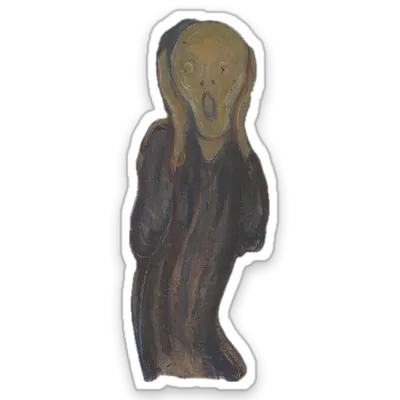
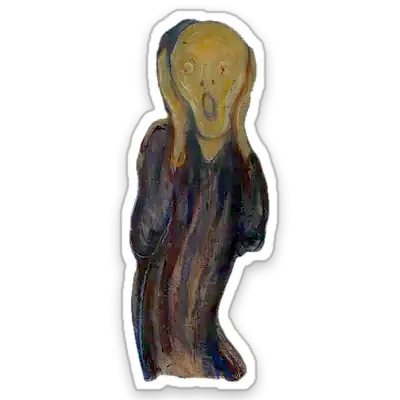
Brighter tarot stickers, uncut descenders, GitHub release and README
- Lift levels and saturation on the nine darkest stickers, The Scream first
- Hero g and live-input g no longer clipped; toxic boss never splits
- Sheet text stays inside tall-screenshot sheets; steps always two lines
- Drop the astrology and tarot FAQs; menu says Browser Extension
- Install page links the GitHub release instead of a site-hosted ZIP
- Friendly README with logo, demo GIF and step-by-step install

Changed region(s): [[0.3, 0.03, 0.69, 0.96]]

diff --git a/README.md b/README.md
@@ -1,98 +1,117 @@
-# bossdetox.ing
+<p align="center">
+  <img src="docs/readme/logo.png" alt="bossdetox.ing logo" width="120" height="120" />
+</p>
 
-A free, local-first Chrome side-panel companion for calm, professional responses, private mantras, Tarot and Bingo. No accounts, AI, backend, tracking, recording, automatic website access or runtime network services.
+<h1 align="center">bossdetox.ing</h1>
 
-## Install the production extension
+<p align="center"><strong>Keep your soul. Keep your paycheck.</strong></p>
 
-1. Extract `release/bossdetox-ing-1.0.0-chrome.zip` into an ordinary folder.
-2. In Chrome 116 or later, enter `chrome://extensions` and enable Developer mode.
-3. Choose **Load unpacked** and select the extracted folder containing `manifest.json`. Source builds use `.output/chrome-mv3`.
-4. Pin the original Search-style toolbar icon. Click it to open the side panel.
-5. Read the privacy disclosure and select **Open my tools**. The daily Tarot card opens first. Choose **Deal with my boss**, then tap a situation for a private charm and professional sentence.
+<p align="center">
+  A free pocket ward for toxic-boss days: what to say, what to send, a daily tarot pull and your boss's horoscope.<br />
+  Works offline. Tells no one. No accounts, no AI, no ads, no tracking.
+</p>
 
-No browser is opened automatically by these instructions or the dev command. Chrome may prevent installation on managed profiles. The neutral icon is a discretion choice; the extension identity remains visible in Chrome.
+<p align="center">
+  <a href="https://ass.bossdetox.ing"><strong>Open the app</strong></a> ·
+  <a href="https://github.com/demetriusk/bossdetoxing/releases/latest"><strong>Download the extension</strong></a> ·
+  <a href="https://bossdetox.ing">Website</a>
+</p>
 
-## Develop and verify
+<p align="center">
+  <img src="docs/readme/demo.gif" alt="Demo: the sky forecast, the daily tarot card, the threat grid, a threat with lines to say and write, and the encrypted Grimoire." width="640" />
+</p>
 
-Use Node **22.23.4 or later** and npm. Dependency versions are locked in `package-lock.json`. Network access is needed to install tooling, never to use the built extension.
+## What's inside
+
+- **Name the threat.** Twenty classics, from the moving goalpost to the meeting about the meeting. Tap one and get a line to say out loud and a line to write in the email.
+- **Pick your rock.** Yellow Rock is warm. Grey Rock is boring on purpose. Firm Rock says no, politely.
+- **Pull a card.** One card a day from a 78-card corporate deck: famous paintings turned stickers, each with a mantra and one next step for the actual job.
+- **Your boss's horoscope.** The real moon, Mercury and planets, calculated on your device. The boss forecast is for fun. Get it in writing anyway.
+- **The Grimoire keeps receipts.** A private calendar of what happened and when, locked with your passphrase. One tap on the eye hides everything.
+
+## Install
+
+You have two options. Pick one, or use both.
+
+### Option 1: the app (phone or computer, nothing to install)
+
+1. Open **[ass.bossdetox.ing](https://ass.bossdetox.ing)** in your browser.
+2. That's it. After the first visit it works offline too.
+3. Optional, for an icon on your home screen:
+   - **iPhone (Safari):** tap the Share button, then **Add to Home Screen**.
+   - **Android (Chrome):** tap the ⋮ menu, then **Add to Home screen** or **Install app**.
+   - **Computer (Chrome or Edge):** click the install icon at the right end of the address bar.
+
+### Option 2: the browser extension (opens in a side panel next to your work)
+
+You need **Google Chrome**, version 116 or newer. It takes about 2 minutes.
+
+1. **Download the ZIP.** Go to the [latest release](https://github.com/demetriusk/bossdetoxing/releases/latest) and click **`bossdetox-ing-1.1.0-chrome.zip`** under **Assets**.
+2. **Unzip it.**
+   - **Mac:** double-click the ZIP in Downloads. A folder appears next to it.
+   - **Windows:** right-click the ZIP, choose **Extract All…**, then **Extract**.
+   - Move that folder somewhere you won't tidy away by accident, like Documents. Chrome loads the extension from this folder, so don't delete it later.
+3. **Open the extensions page.** In Chrome, type `chrome://extensions` in the address bar and press Enter.
+4. **Turn on Developer mode.** Flip the **Developer mode** switch in the top-right corner. Three new buttons appear.
+5. **Load it.** Click **Load unpacked** and choose the folder you unzipped. Pick the folder that has `manifest.json` directly inside it.
+6. **Pin it.** Click the puzzle-piece icon in Chrome's toolbar and click the pin next to **bossdetox.ing**. Its toolbar icon is a plain magnifying glass, on purpose.
+7. **Open it.** Click the magnifying glass, or press **Alt+Shift+O** (**Option+Shift+O** on a Mac). The side panel opens.
+
+**If something goes wrong:**
+
+| What you see                                 | What to do                                                                                                            |
+| -------------------------------------------- | --------------------------------------------------------------------------------------------------------------------- |
+| "Manifest file is missing or unreadable"     | You picked the wrong folder. Open the unzipped folder: if there's another folder inside it, choose that inner one.    |
+| No Developer mode switch, or it's greyed out | Your company manages this Chrome profile and blocks extensions. Use the app from Option 1 instead, on your own phone. |
+| A "Disable developer mode extensions" popup  | Chrome may show this for extensions installed this way. Close it; don't click **Disable**.                            |
+| The extension disappeared                    | The folder was moved or deleted. Put it back, or repeat steps 1 to 5.                                                 |
+
+**Updating:** download the new ZIP from the [latest release](https://github.com/demetriusk/bossdetoxing/releases/latest) and unzip it. Delete everything inside your old extension folder, copy the new files into that same folder, then click the ↻ reload arrow on the bossdetox.ing card at `chrome://extensions`. Keep the same folder: Chrome treats a different folder as a brand-new install, with empty history.
+
+## Privacy, in plain words
+
+- The extension makes zero network requests. The app only downloads itself and its updates. Nothing you tap or type is sent anywhere.
+- History is optional, encrypted with your passphrase and stored only in your browser. No account, no cloud, no recovery: lose the passphrase, lose the history.
+- **The limits are real.** A work laptop, monitoring software, screen sharing, screenshots or clipboard history can still show what's on your screen. The eye button hides everything in one tap, but nothing makes you invisible on a managed device.
+
+Details: [PRIVACY.md](docs/PRIVACY.md) · [SECURITY_THREAT_MODEL.md](docs/SECURITY_THREAT_MODEL.md)
+
+**This is a coping tool for a bad day at work, not therapy or legal advice.** If you're dealing with threats, harassment or danger, go to [Support without jokes](https://bossdetox.ing/support/).
+
+## For developers
+
+The extension (WXT, Chrome MV3), the PWA (`pwa/`, Vite) and the shared React app (`src/`) live in this repo, along with the Astro/EmDash marketing site (`website/`). Use Node **22.23.4 or later**.
 
 ```sh
 npm ci
-npm run dev
+npm run dev          # extension dev build (development only)
+npm test             # unit tests
+npm run test:e2e     # typecheck, production build, privacy audit, extension browser tests
+npm run package      # loadable ZIP in release/ with SHA-256 checksums
 ```
 
-The dev server is for development only and WXT may add reload permissions/connections. Use a **production build** for privacy audits and private use.
+Run `npx playwright install chromium` once before the browser tests. The PWA and the site:
 
 ```sh
-npm run validate:content
-npm run typecheck
-npm run lint
-npm test
-npm run build
-npm run audit:build
-```
-
-To run the extension browser tests, install Playwright's development browser once:
-
-```sh
-npx playwright install chromium
-npm run test:e2e
-```
-
-An existing compatible Chrome for Testing executable can instead be supplied with the `PLAYWRIGHT_CHROMIUM_EXECUTABLE` environment variable. Tests run headlessly against the real production extension, not a web mock. Clipboard assertions intercept write calls; tests never read the system clipboard. Source/help links are the only intentional external navigations.
-
-```sh
-npm run format
-npm run package
-```
-
-Packaging typechecks, rebuilds and audits the extension, then produces the loadable ZIP in `release/` with SHA-256 checksums. `npm ci` plus the lockfile reproduces dependencies; the ZIP script uses sorted file order and fixed archive timestamps. Browser tests always typecheck, rebuild and audit before loading the extension.
-
-## Product and code map
-
-The binding feature/privacy scope is [BOSSDETOX_V1_FULL_SPEC.md](BOSSDETOX_ING_V1_HANDOFF/BOSSDETOX_V1_FULL_SPEC.md). The supplied [v1.1 redesign brief](BOSSDETOX_REDESIGN_FILES/BOSSDETOX_VISUAL_UX_BRIEF.md) supersedes its visual hierarchy. The owner’s newer WordArt/ASCII/color references supersede that brief’s restrained visual palette; see [current interface captures](docs/UX_REVISION.md). [REDESIGN_PLAN.md](docs/REDESIGN_PLAN.md) records the component and state architecture. Older `The Ward` documents are reference material and never override the current name, privacy decisions or full v1 scope. DOCX copies are for reading; Markdown wins conflicts.
-
-| Area                                                            | Location                        |
-| --------------------------------------------------------------- | ------------------------------- |
-| Browser action, service worker, MV3 policy                      | `entrypoints/`, `wxt.config.ts` |
-| UI, Quick/Deep support and feature screens                      | `src/app/`                      |
-| Deterministic selection, content contracts, session logic       | `src/domain/`                   |
-| English dictionary, original practices, safety edits            | `src/content/`                  |
-| PBKDF2/AES-GCM, authenticated archives, atomic IndexedDB writes | `src/vault/`                    |
-| Non-sensitive preferences                                       | `src/browser/settings.ts`       |
-| Semantic color/spacing tokens and responsive CSS                | `src/styles/`                   |
-| Unit/security and extension tests                               | `tests/`                        |
-
-## Languages
-
-Multilingual support is a recorded product requirement. English is the initial pack. Interface strings are externalized, nested copy can fall back to English through `resolveLocale`, structured content uses stable IDs and runtime schemas, and dates use `Intl`. Read [LOCALIZATION.md](docs/LOCALIZATION.md) before adding a language. Additional translations are not shipped yet.
-
-## Private history
-
-Note-taking has been removed at the owner's request: no incident diary, task-notes/brief workflow, closure writing, calendar annotations or add-facts form. Response editing and custom Bingo squares remain. Focus was also explicitly removed. These decisions supersede the corresponding original v1 requirements.
-
-Pain taps create session-only calendar events with a selected mantra; Done records a planned response, never a sent message. Optional encrypted history saves these events, favorites and recent-mantra IDs only after consent and while the vault is unlocked. Enable it from the calendar. Mantras stay pinned until an explicit new selection or reroll.
-
-New exports use archive version 2 and still accept authenticated version 1 backups. Existing encrypted incident/task records and legacy calendar annotations are preserved for backup compatibility, but have no reading, creation or editing screen. Removing a feature does not erase existing user data. Export an encrypted backup or deliberately delete all local data in Settings. There is no account, passphrase recovery or cloud sync.
-
-**Hide & lock**, Escape, the registered blank shortcut, panel backgrounding and idle lock remove private session state and lock the vault. The panel starts locked after reload. Response edits and custom Bingo boards are volatile. The daily card ID/date and appearance preferences are non-sensitive local Chrome storage; private history uses encrypted IndexedDB.
-
-**Screen sharing, employer-managed devices/profiles, endpoint monitoring, screenshots and clipboard history can expose activity or copied text. No claim of invisibility is made.** See [PRIVACY.md](docs/PRIVACY.md), [SECURITY_THREAT_MODEL.md](docs/SECURITY_THREAT_MODEL.md) and [SCREEN_SHARE_QA.md](docs/SCREEN_SHARE_QA.md).
-
-## Release status
-
-See [RELEASE_CHECKLIST.md](docs/RELEASE_CHECKLIST.md) for measured checks and remaining manual gates. A loadable candidate ZIP is not a claim that receiver-view sharing, volunteer usability, screen-reader conformance or independent security review has happened. No Web Store publication is authorized or performed. Original project code is MIT licensed; third-party licenses and artwork provenance are listed in [LICENSES.md](docs/LICENSES.md).
-
-## Website and PWA
-
-The shared PWA lives in `pwa/`; the separate Astro/EmDash site lives in `website/`. Build the extension first so its dependency notices and download ZIP are current, then build the web outputs:
-
-```sh
-npm run package
-npm run build:web
-node scripts/site-assets.mjs
+npm run build:web                 # PWA into pwa/dist
+node scripts/site-assets.mjs      # shared art, fonts and notices into website/public
 npm ci --prefix website
 npm run --prefix website build
+npm run test:web                  # PWA and site browser tests, including axe
 ```
 
-The app has no authentication or private-data server. The CMS has administrator authentication for public publishing only. See [WEB_DEPLOYMENT.md](docs/WEB_DEPLOYMENT.md) for free-tier deployment and first-admin setup.
+| Area                                                      | Location                        |
+| --------------------------------------------------------- | ------------------------------- |
+| Browser action, service worker, MV3 policy                | `entrypoints/`, `wxt.config.ts` |
+| Screens and components                                    | `src/app/`, `src/components/`   |
+| Deterministic selection, content contracts, session logic | `src/domain/`                   |
+| Copy, mantras, tarot and threats                          | `src/content/`                  |
+| PBKDF2/AES-GCM vault, encrypted archives                  | `src/vault/`                    |
+| Tokens and styles                                         | `src/styles/`                   |
+| Tests                                                     | `tests/`                        |
+
+Live state: [CURRENT.md](docs/CURRENT.md). Deployment: [WEB_DEPLOYMENT.md](docs/WEB_DEPLOYMENT.md). Release gates: [RELEASE_CHECKLIST.md](docs/RELEASE_CHECKLIST.md). Localization: [LOCALIZATION.md](docs/LOCALIZATION.md).
+
+## License
+
+Code is [MIT](LICENSE). Tarot art comes from public-domain paintings via Wikimedia Commons; fonts and other third-party pieces keep their own licences, listed in [LICENSES.md](docs/LICENSES.md).
